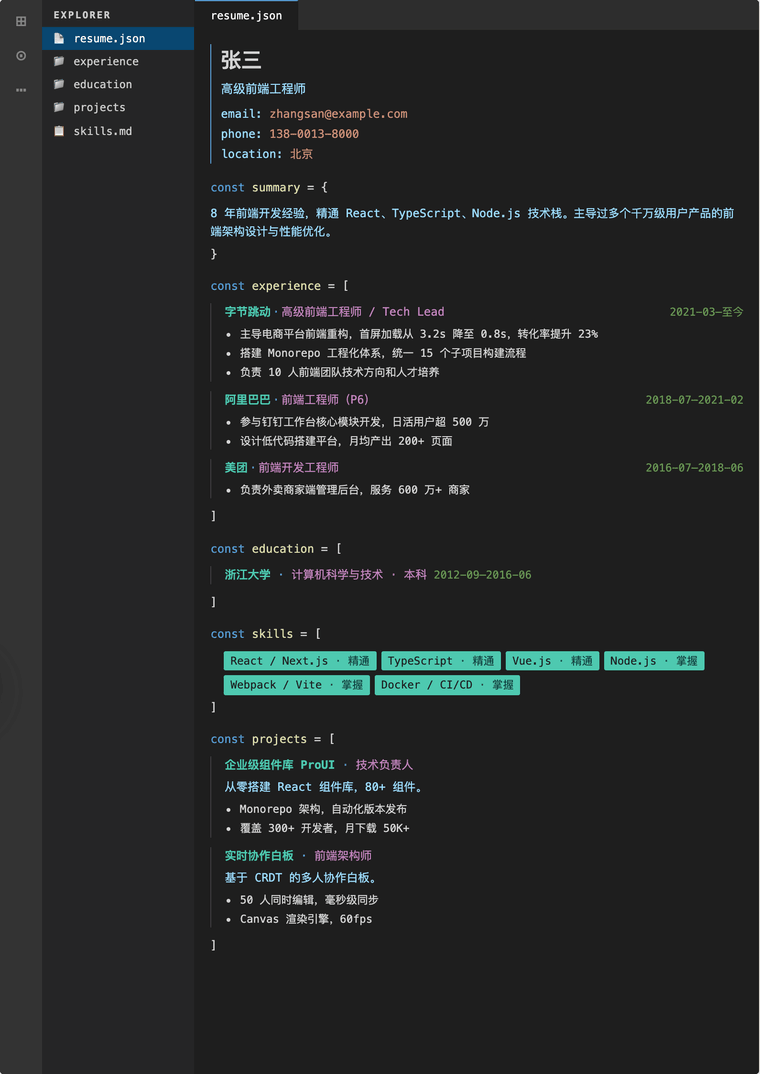
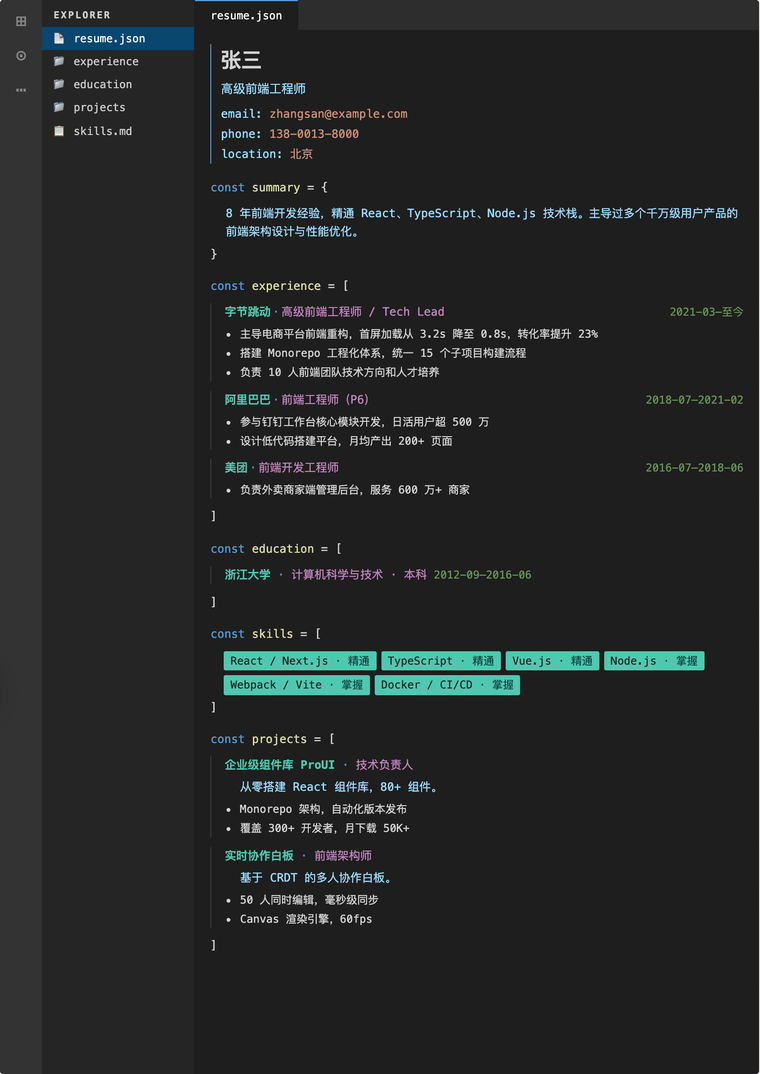
fix: VS Code 模板 summary 缩进至大括号内 + 重生成封面

Changed region(s): [[0.2724, 0.1844, 0.9684, 0.2458], [0.3026, 0.7067, 0.575, 0.7374], [0.3026, 0.7989, 0.5145, 0.8296]]

diff --git a/data/templates.ts b/data/templates.ts
@@ -11367,7 +11367,7 @@ li p, li div { margin: 0; padding: 0; display: inline; }
 .vs-sep { color: #569CD6; }
 .vs-pos { color: #C586C0; }
 .vs-date { color: #6A9955; margin-left: auto; font-size: 8.5pt; }
-.vs-body { font-size: 9pt; color: #9CDCFE; margin-top: 4px; }
+.vs-body { font-size: 9pt; color: #9CDCFE; margin-top: 4px; padding-left: 16px; }
 .vs-list { padding-left: 16px; margin-top: 4px; }
 .vs-list li { font-size: 8.5pt; color: #D4D4D4; margin-bottom: 2px; }
 .vs-tags { display: flex; flex-wrap: wrap; gap: 5px; padding-left: 14px; margin-bottom: 4px; }

diff --git a/data/templates/vscode.ts b/data/templates/vscode.ts
@@ -139,7 +139,7 @@ const template: TemplateData = {
 .vs-sep { color: #569CD6; }
 .vs-pos { color: #C586C0; }
 .vs-date { color: #6A9955; margin-left: auto; font-size: 8.5pt; }
-.vs-body { font-size: 9pt; color: #9CDCFE; margin-top: 4px; }
+.vs-body { font-size: 9pt; color: #9CDCFE; margin-top: 4px; padding-left: 16px; }
 .vs-list { padding-left: 16px; margin-top: 4px; }
 .vs-list li { font-size: 8.5pt; color: #D4D4D4; margin-bottom: 2px; }
 .vs-tags { display: flex; flex-wrap: wrap; gap: 5px; padding-left: 14px; margin-bottom: 4px; }
